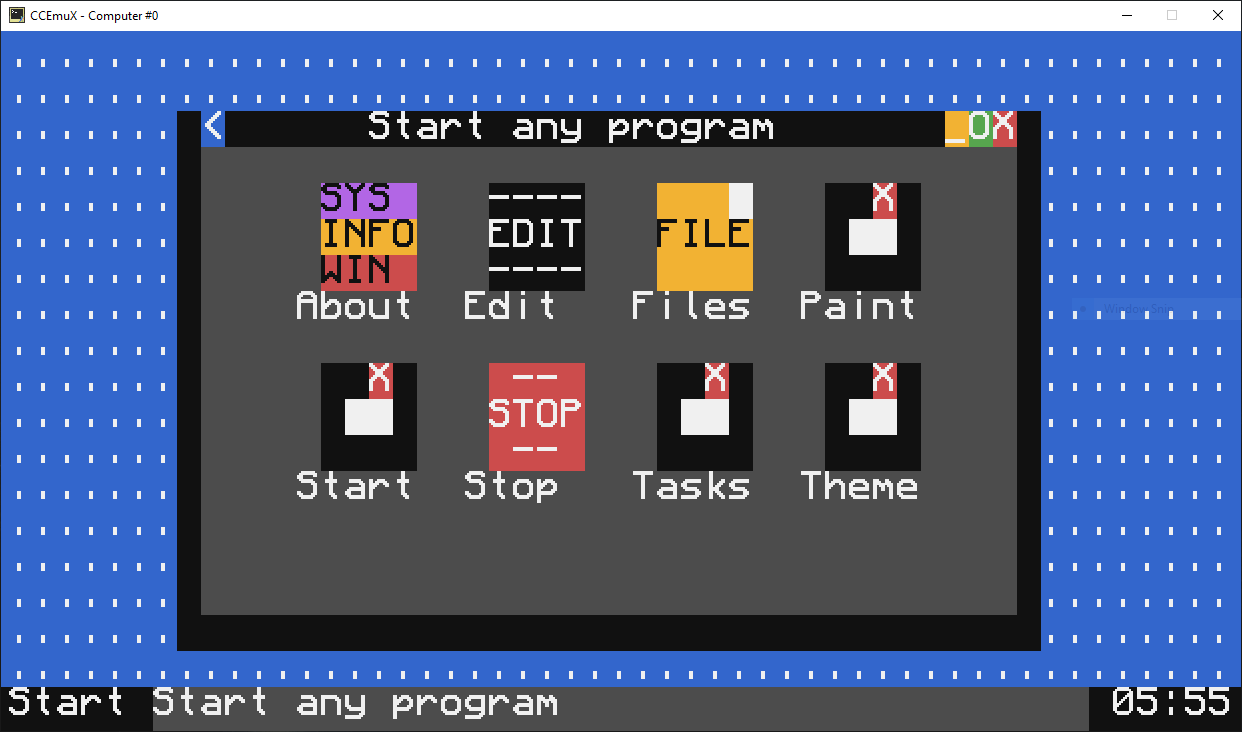
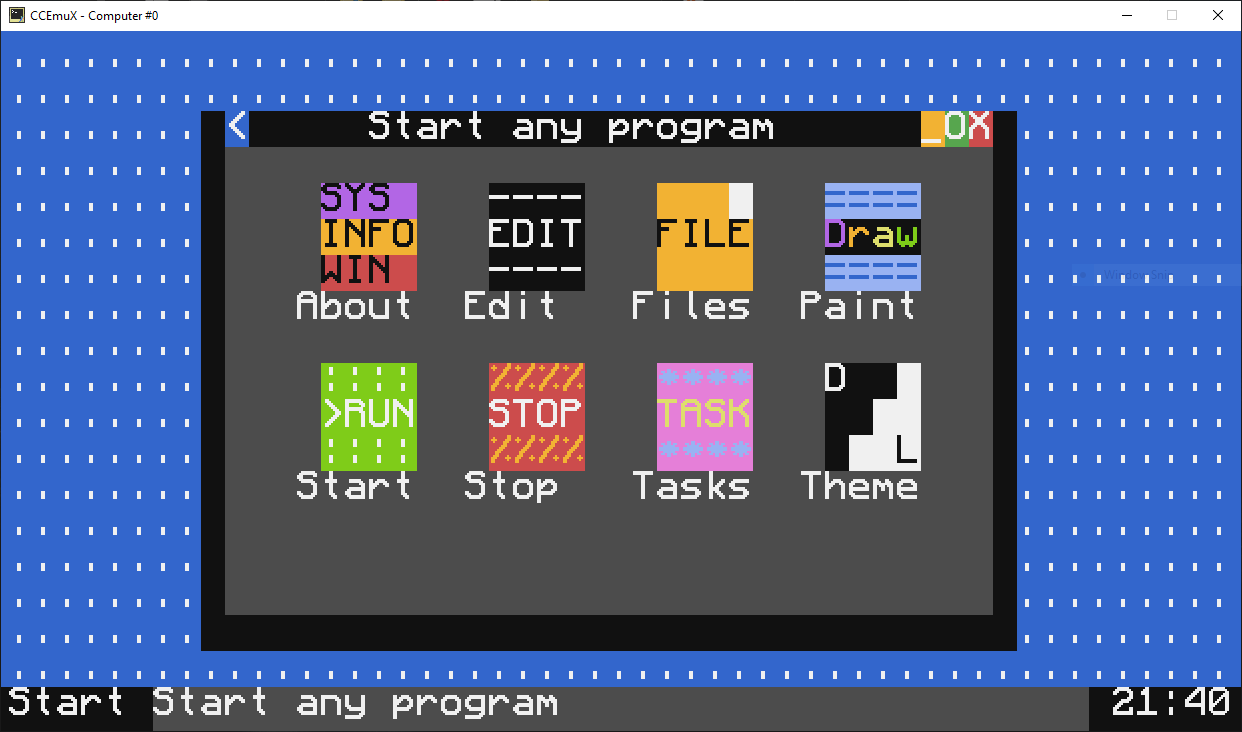
Add paint application

diff --git a/README.md b/README.md
@@ -8,8 +8,8 @@ A simple Operating System / Window Manger for the MineCraft ComputerCraft comput
 - Resizable windows
 - Window snapping
 - Virtual text bitmap rendering
+- Paint application
 - File manager application?
-- Paint application?
 - Editor application?
 
 ## How to install?
@@ -29,3 +29,5 @@ Here are some screenshots taken with the ComputerCraft emulator running BassieOS
 ![Screenshot 2](docs/screenshot2.png)
 
 ![Screenshot 3](docs/screenshot3.png)
+
+![Screenshot 4](docs/screenshot4.png)
